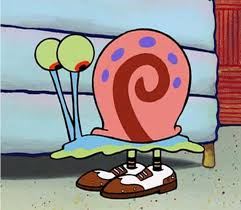
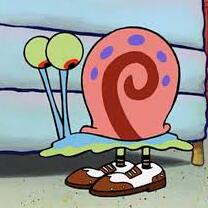
Added new pfp and background

diff --git a/css/style.css b/css/style.css
@@ -26,7 +26,7 @@ body {
     min-height: 100%;
     /* The image used for the site background. Try changing skyscape.jpg to stars.jpg. Put a replacement photo in the images folder and, in line 21 below, replace skyscape.jpg with yourbackgroundfilename.jpg */
     /* The linear gradient darkens the image, like putting a sunglasses lens on top of it. If you want to darken the image even more, change 0.1 (both times) to 0.3 or higher */
-    background: linear-gradient(rgba(0, 0, 0, 0.1), rgba(0, 0, 0, 0.1)), url(../images/skyscape.jpg);
+    background: linear-gradient(rgba(0, 0, 0.5, 1), rgba(0, 0, 0, 0.1)), url(../images/background.jpg);
     /* Prevents the browser from repeating or "tiling" the background image */
     background-repeat: no-repeat;
     background-position: center;
